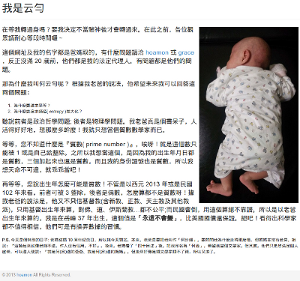
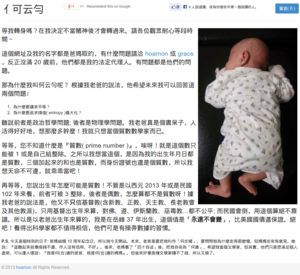
change website title

diff --git a/docs/blog/2013/11/20/www_hoyun2_info.rst b/docs/blog/2013/11/20/www_hoyun2_info.rst
@@ -1,4 +1,4 @@
-女兒的網站: 我是云勻
+女兒的網站: 亻可云勻
 ================================================================================
 
 .. figure:: www_hoyun2_info.png
@@ -7,17 +7,18 @@
 
     http://www.hoyun2.info/ 網站快照
 
-女兒出生時就買了為期 10 年的網址： http://www.hoyun2.info/ 。\
+女兒出生時就在 `Namesilo.com <http://www.namesilo.com/>`_ 買了 10 年期的網址： http://www.hoyun2.info/ 。\
 都過了快 4 個月了，直到今天才有空整理。會幫她這麼早就申請個網址，\
 無非是希望她能愛上寫作以及能勇於表達，這些不過是我的眾多期待中的小小部份罷了。
 
 .. more::
 
-這網站用的技術不多，純 HTML 的靜態網站，用了三項工具:
+這網站用的技術不多，純 HTML 的靜態網站，用了四項工具:
 
-1. Bootstrap: 前端 css/js 框架
-#. Amazon S3: 網頁檔 Hosting serivce
-#. Jenkins: 發佈伺服器
+1. `Bootstrap <http://getbootstrap.com/>`_ : 前端 css/js 框架
+#. `Amazon S3 <https://aws.amazon.com/s3/>`_ : 網頁檔 Hosting serivce
+#. `Jenkins <http://jenkins-ci.org/>`_ : 發佈伺服器
+#. `Disqus <http://disqus.com/>`_ : 留言管理系統
 
 本來是要跑在 http://bitbucket.org/ 的 Hosting Service 上，不過它不讓我把 hoyun2.bitbucket.org 轉成 www.hoyun2.info ，\
 只好放棄。
